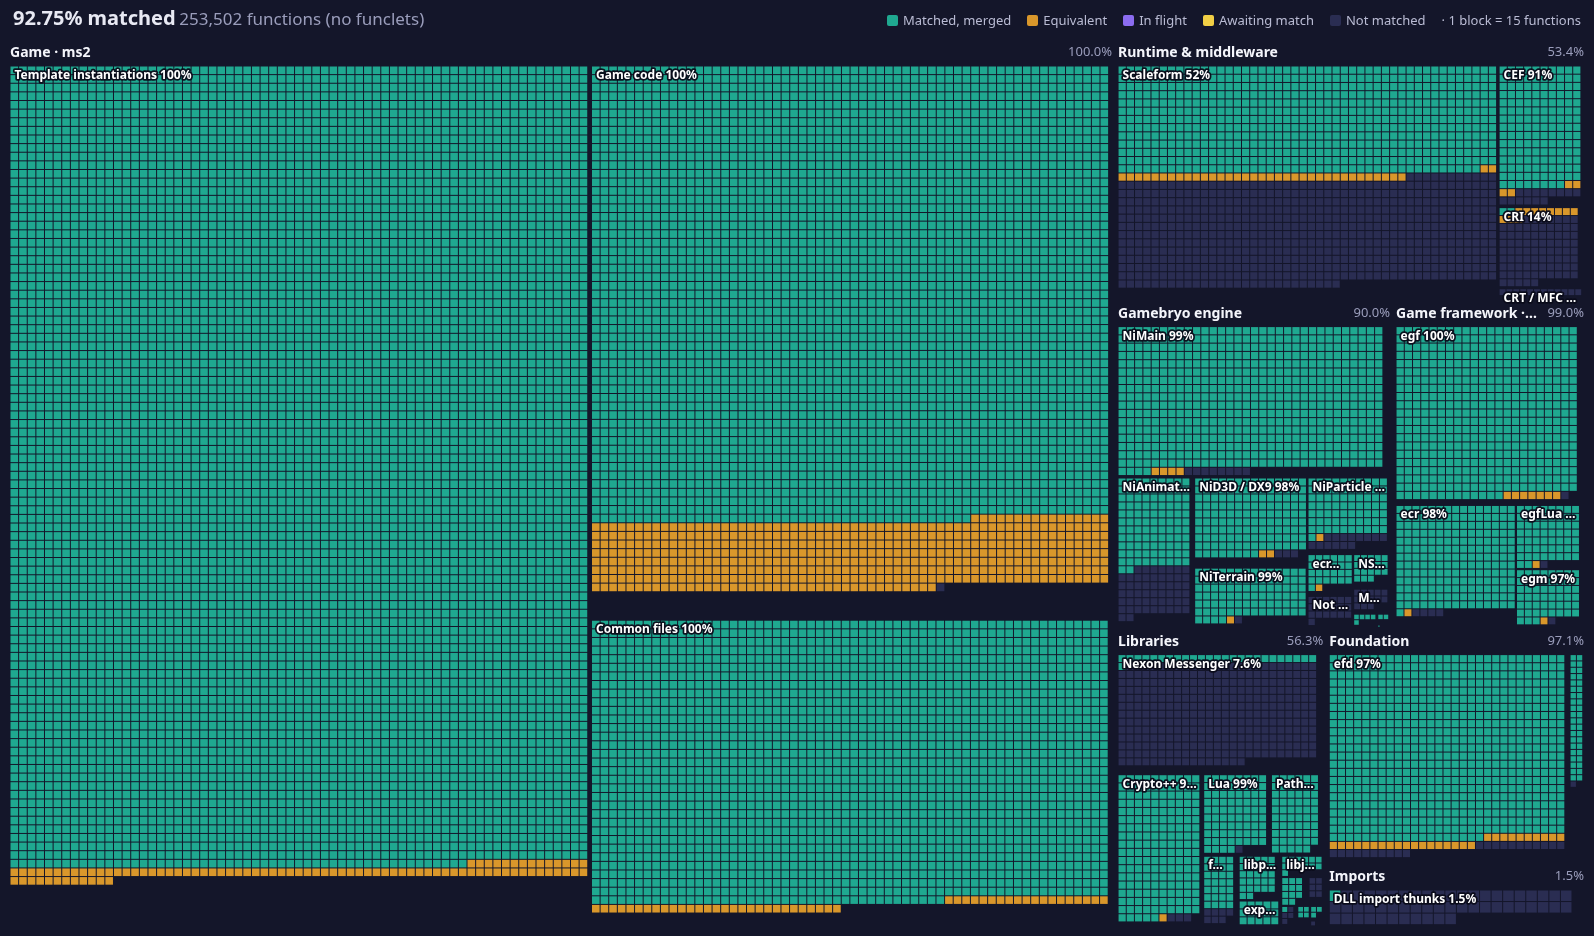
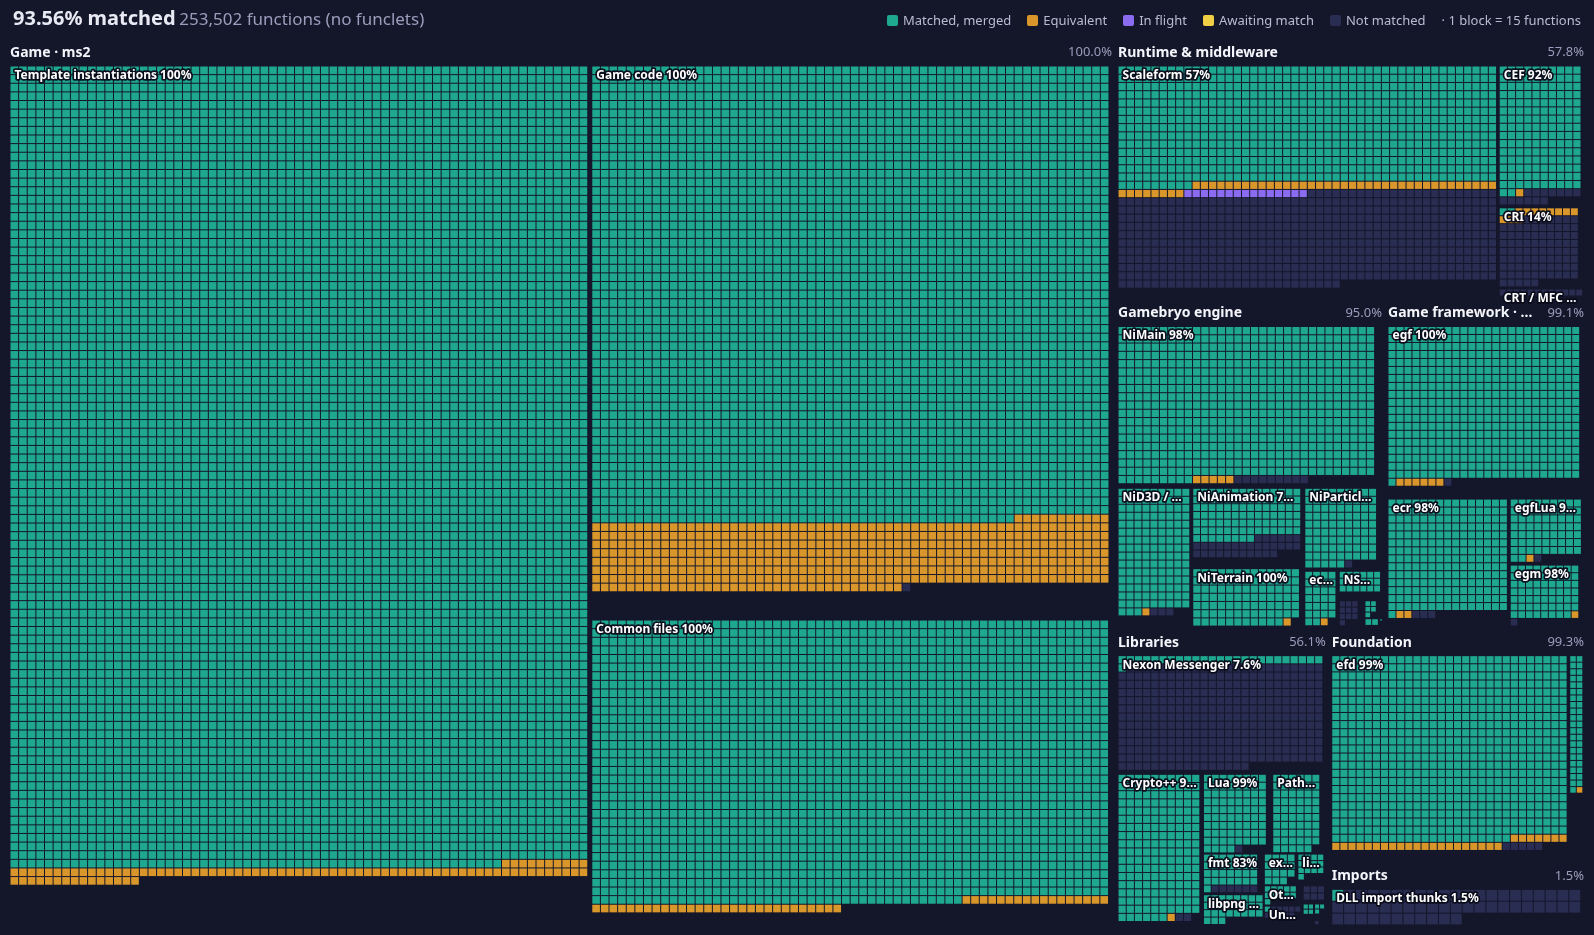
README: refresh progress image and table

Changed region(s): [[0.0, 0.062, 1.0, 0.9925]]

diff --git a/README.md b/README.md
@@ -25,14 +25,14 @@ Merged totals by area (functions in the original executable; regenerated on each
 <!-- progress:start -->
 | Area | Functions | Matched | Equivalent | Done |
 |---|---:|---:|---:|---:|
-| Game · ms2 | 179,367 | 170,085 (94.8%) | 9,261 (5.2%) | 100.0% |
-| Runtime & middleware | 22,418 | 11,188 (49.9%) | 779 (3.5%) | 53.4% |
-| Gamebryo engine | 16,622 | 14,840 (89.3%) | 117 (0.7%) | 90.0% |
-| Game framework · egf | 11,598 | 11,351 (97.9%) | 135 (1.2%) | 99.0% |
-| Libraries | 11,528 | 6,461 (56.0%) | 25 (0.2%) | 56.3% |
-| Foundation | 11,187 | 10,436 (93.3%) | 430 (3.8%) | 97.1% |
+| Game · ms2 | 179,364 | 170,263 (94.9%) | 9,087 (5.1%) | 100.0% |
+| Runtime & middleware | 22,411 | 12,095 (54.0%) | 866 (3.9%) | 57.8% |
+| Gamebryo engine | 16,198 | 15,279 (94.3%) | 115 (0.7%) | 95.0% |
+| Game framework · egf | 12,121 | 11,881 (98.0%) | 134 (1.1%) | 99.1% |
+| Libraries | 11,623 | 6,497 (55.9%) | 25 (0.2%) | 56.1% |
+| Foundation | 11,003 | 10,498 (95.4%) | 431 (3.9%) | 99.3% |
 | Imports | 782 | 11 (1.4%) | 1 (0.1%) | 1.5% |
-| **Total** | **253,502** | 224,372 (88.5%) | 10,748 (4.2%) | 92.7% |
+| **Total** | **253,502** | 226,524 (89.4%) | 10,659 (4.2%) | 93.6% |
 <!-- progress:end -->
 
 ## Layout
